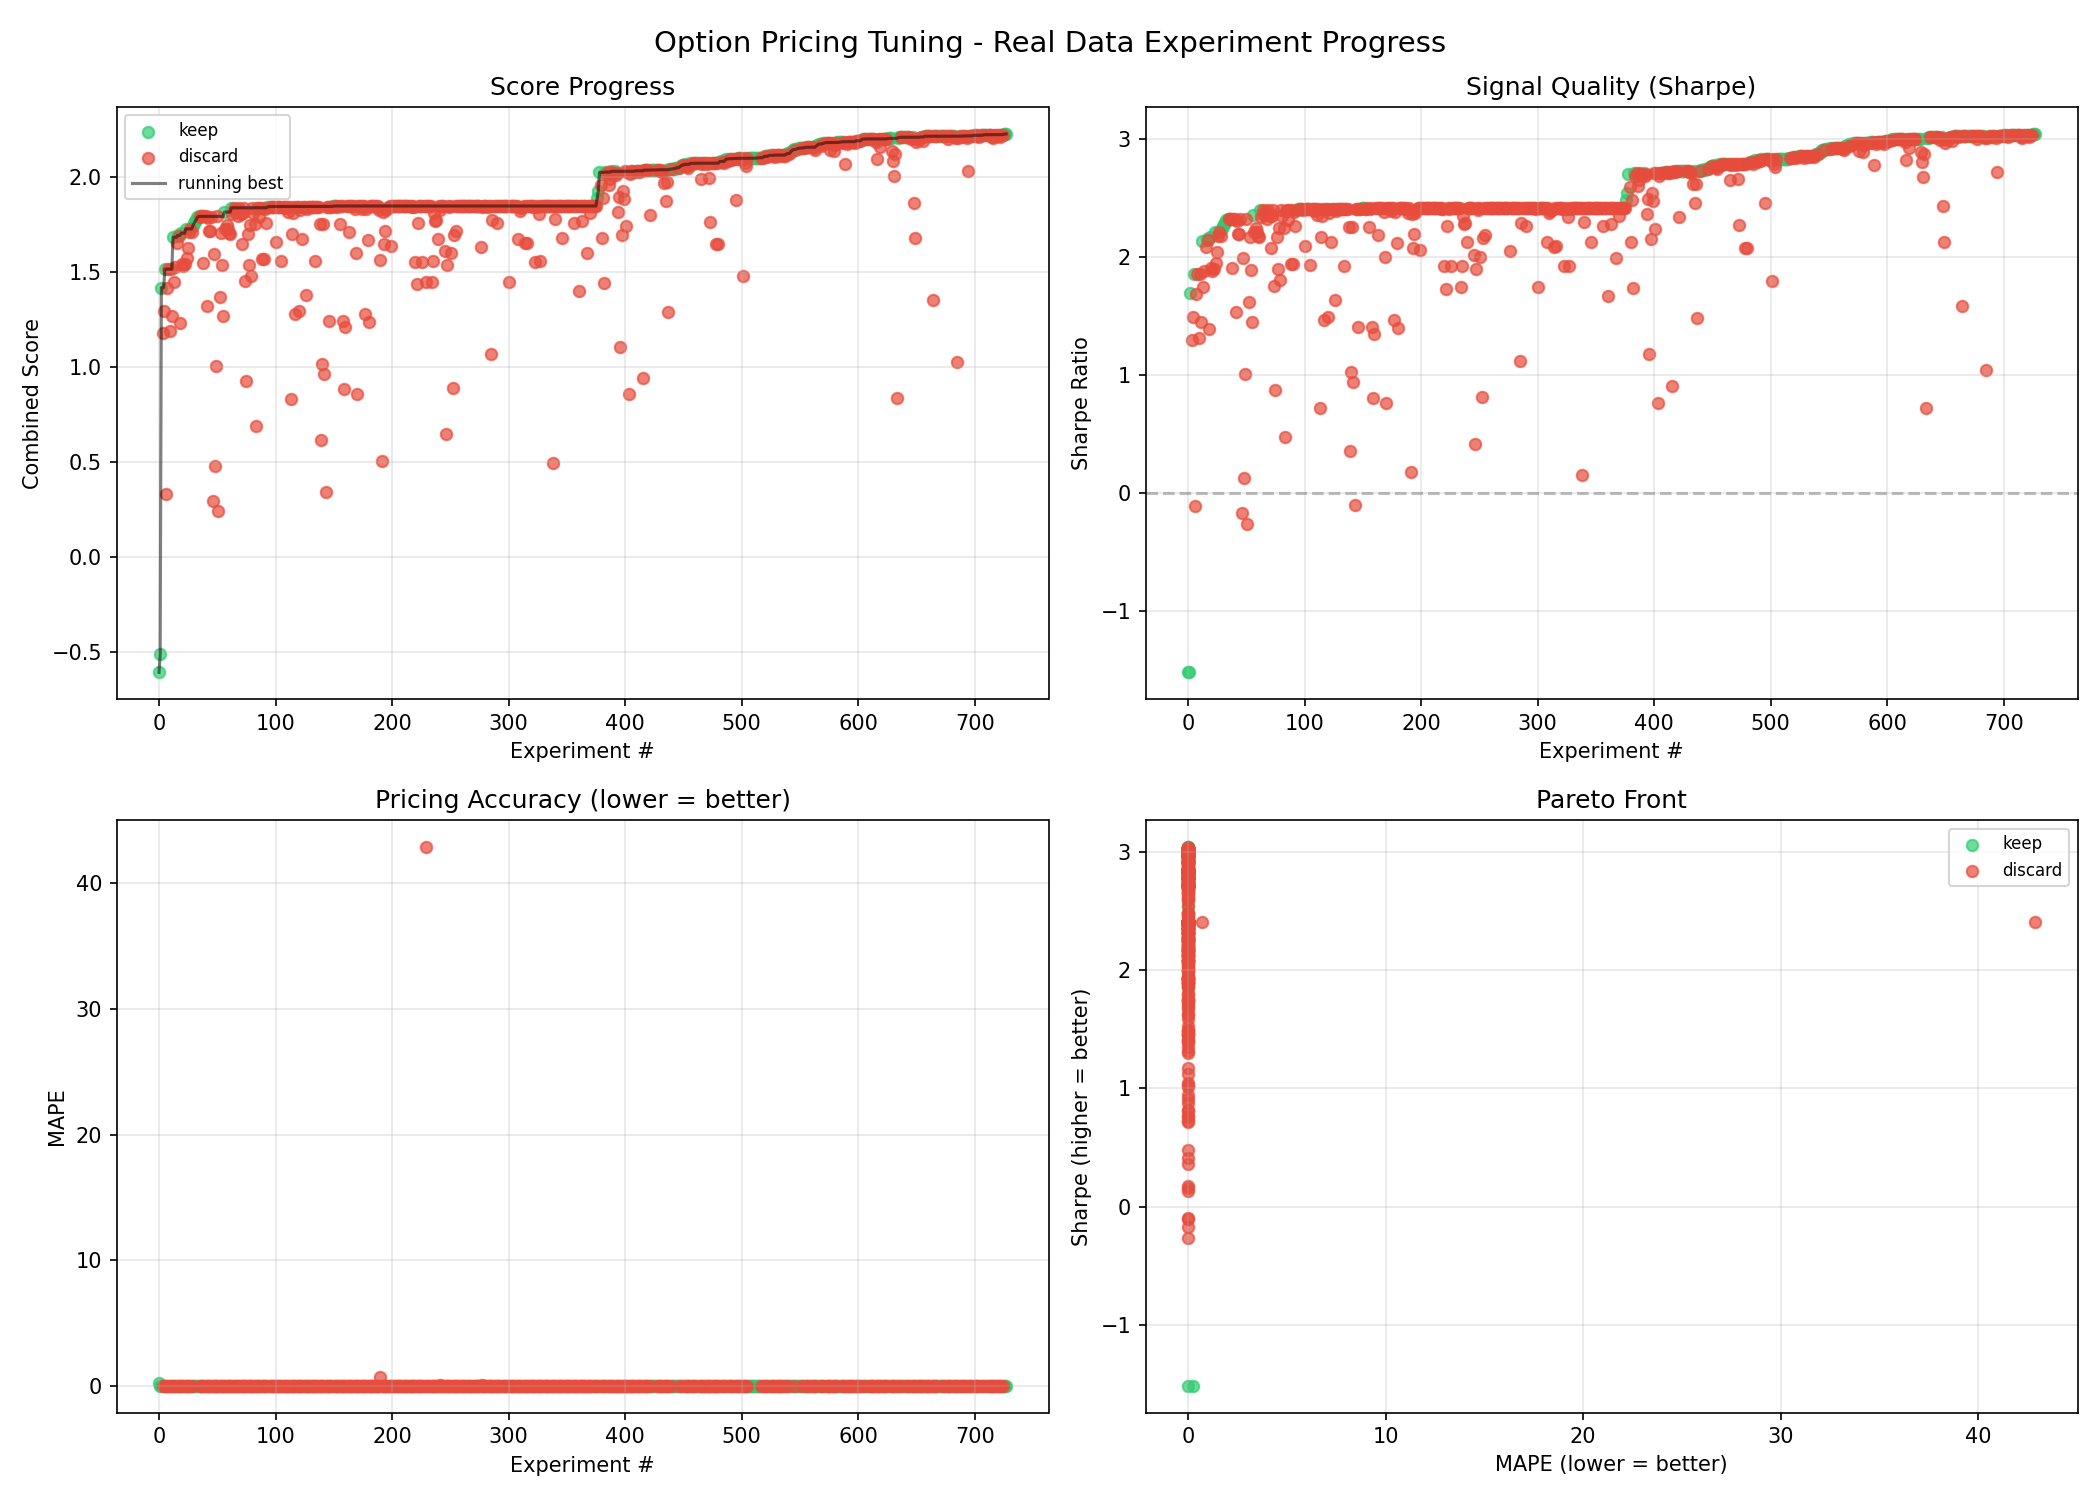
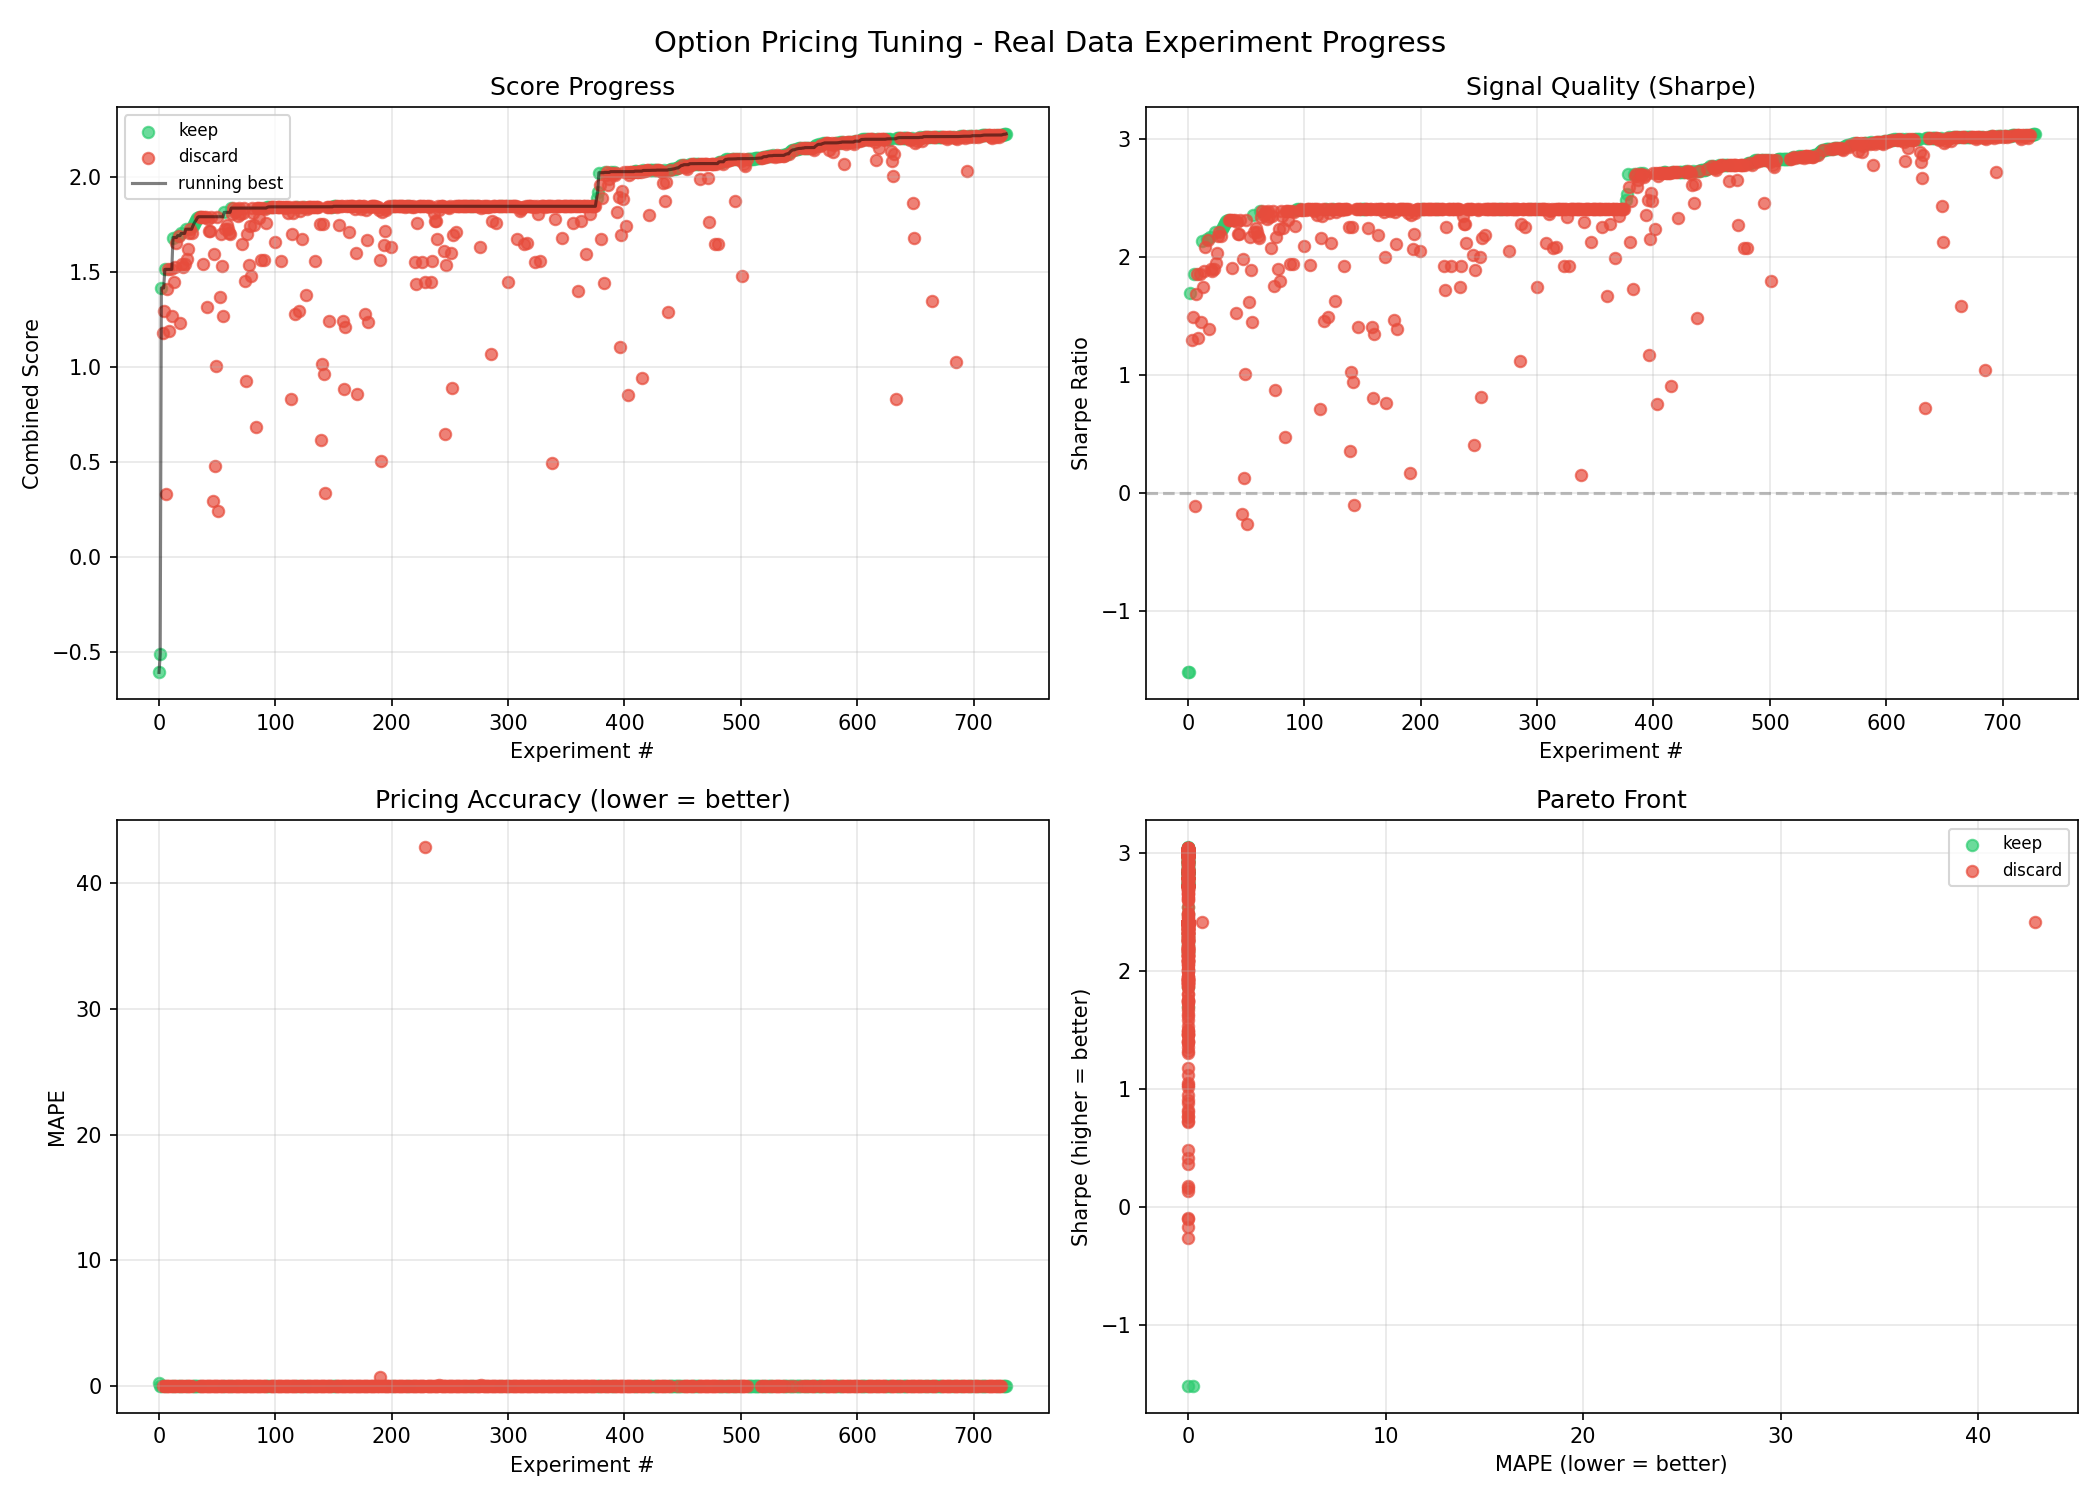
log exp729

diff --git a/README.md b/README.md
@@ -9,12 +9,12 @@ signals using **real stock market data** from Yahoo Finance.
 
 | Metric | Value |
 |---|---|
-| Combined Score | 2.2253 |
-| Sharpe Ratio | 3.0436 |
+| Combined Score | 2.2273 |
+| Sharpe Ratio | 3.0468 |
 | MAPE | 0.002003 |
 | Win Rate | 86.2% |
 | Trades | 29 |
-| Experiments | 728 (167 kept) |
+| Experiments | 729 (168 kept) |
 
 ## How It Works
 
